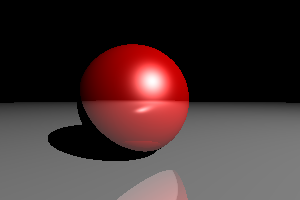
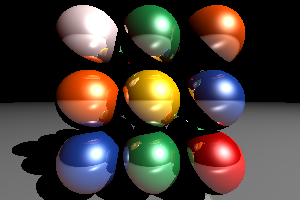
finish raytracer homework

diff --git a/python-raytracer/raytracer.py b/python-raytracer/raytracer.py
@@ -1,5 +1,6 @@
 import numpy as np
 import matplotlib.pyplot as plt
+import random
 
 
 def normalize(vector):
@@ -52,17 +53,17 @@ light = {
     "specular": np.array([1, 1, 1]),
 }
 
+cube_colors = [
+    np.array([0.00, 0.61, 0.28]),  # Green
+    np.array([0.73, 0.00, 0.00]),  # Red
+    np.array([0.00, 0.27, 0.68]),  # Blue
+    np.array([1.00, 0.35, 0.00]),  # Orange
+    np.array([1.00, 1.00, 1.00]),  # White
+    np.array([1.00, 0.84, 0.00]),  # Yellow
+]
+
 objects = [
-    {
-        "center": np.array([-0.2, 0, -1]),
-        "radius": 0.7,
-        "ambient": np.array([0.1, 0, 0]),
-        "diffuse": np.array([0.7, 0, 0]),
-        "specular": np.array([1, 1, 1]),
-        "shininess": 100,
-        "reflection": 0.5,
-    },
-    {
+    {  # Ground
         "center": np.array([0, -9000, 0]),
         "radius": 9000 - 0.7,
         "ambient": np.array([0.1, 0.1, 0.1]),
@@ -75,8 +76,24 @@ objects = [
 
 
 def create_rubiks_cube():
-    pass
+    global cube_colors, objects
+    for x in [-0.4, 0, 0.4]:
+        for y in [-0.4, 0, 0.4]:
+            for z in [0, -0.4, -0.8]:
+                objects.append(
+                    {
+                        "center": np.array([x, y, z]),
+                        "radius": 0.2,
+                        "ambient": np.array([0.1, 0, 0]),
+                        "diffuse": random.choice(cube_colors),
+                        "specular": np.array([1, 1, 1]),
+                        "shininess": 100,
+                        "reflection": 0.5,
+                    }
+                )
 
+
+create_rubiks_cube()
 
 image = np.zeros((height, width, 3))
 for i, y in enumerate(np.linspace(screen[1], screen[3], height)):
